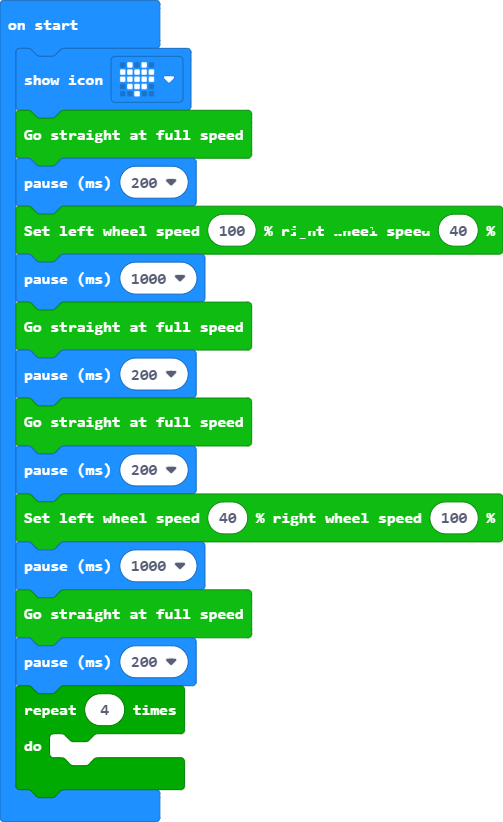
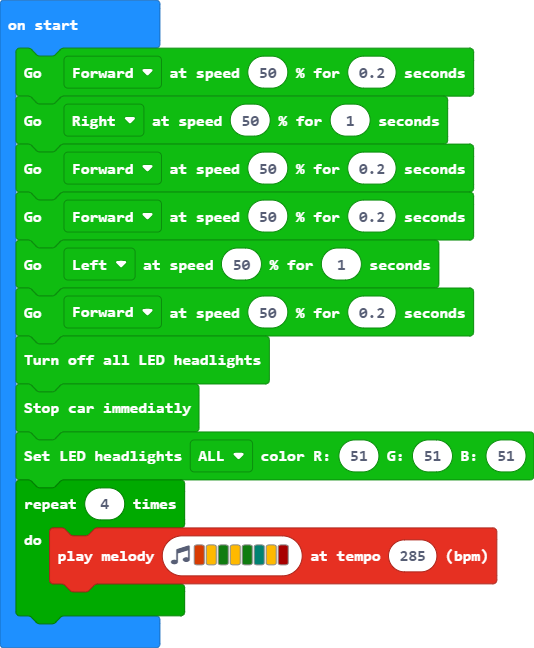
Update main.blocks, main.ts

diff --git a/main.ts b/main.ts
@@ -1,16 +1,12 @@
-basic.showIcon(IconNames.Heart)
-cuteBot.forward()
-basic.pause(200)
-cuteBot.motors(100, 40)
-basic.pause(1000)
-cuteBot.forward()
-basic.pause(200)
-cuteBot.forward()
-basic.pause(200)
-cuteBot.motors(40, 100)
-basic.pause(1000)
-cuteBot.forward()
-basic.pause(200)
+cuteBot.moveTime(cuteBot.Direction.forward, 50, 0.2)
+cuteBot.moveTime(cuteBot.Direction.right, 50, 1)
+cuteBot.moveTime(cuteBot.Direction.forward, 50, 0.2)
+cuteBot.moveTime(cuteBot.Direction.forward, 50, 0.2)
+cuteBot.moveTime(cuteBot.Direction.left, 50, 1)
+cuteBot.moveTime(cuteBot.Direction.forward, 50, 0.2)
+cuteBot.closeheadlights()
+cuteBot.stopcar()
+cuteBot.singleheadlights(cuteBot.RGBLights.ALL, 51, 51, 51)
 for (let index = 0; index < 4; index++) {
-	
+    music.playMelody("B A G A G F A C5 ", 285)
 }
